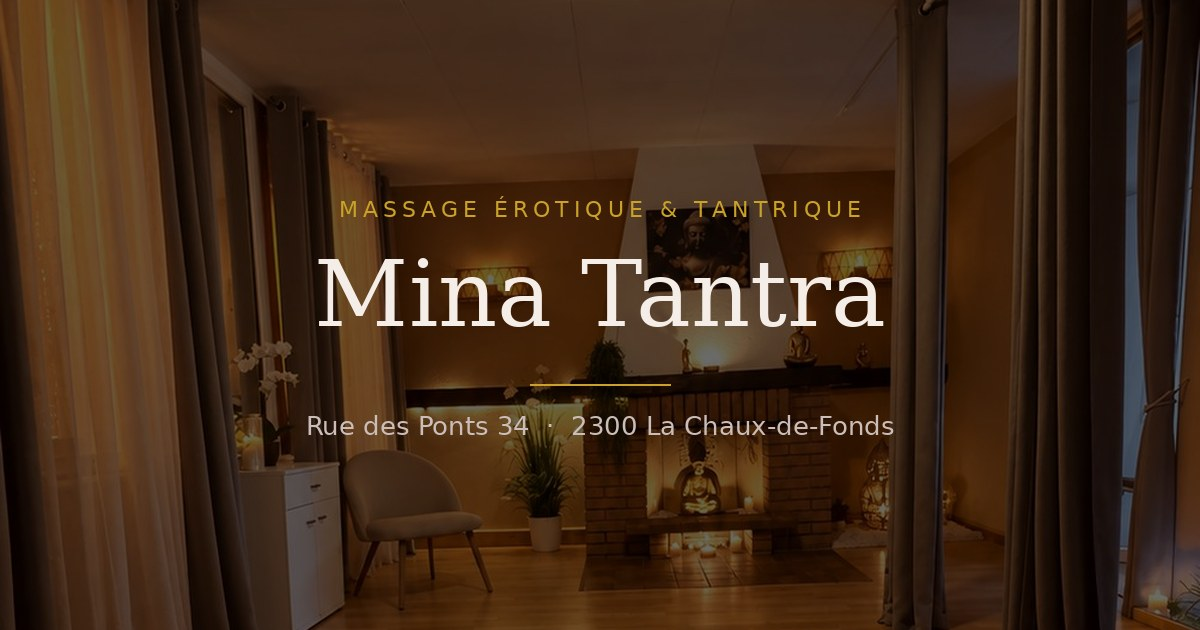
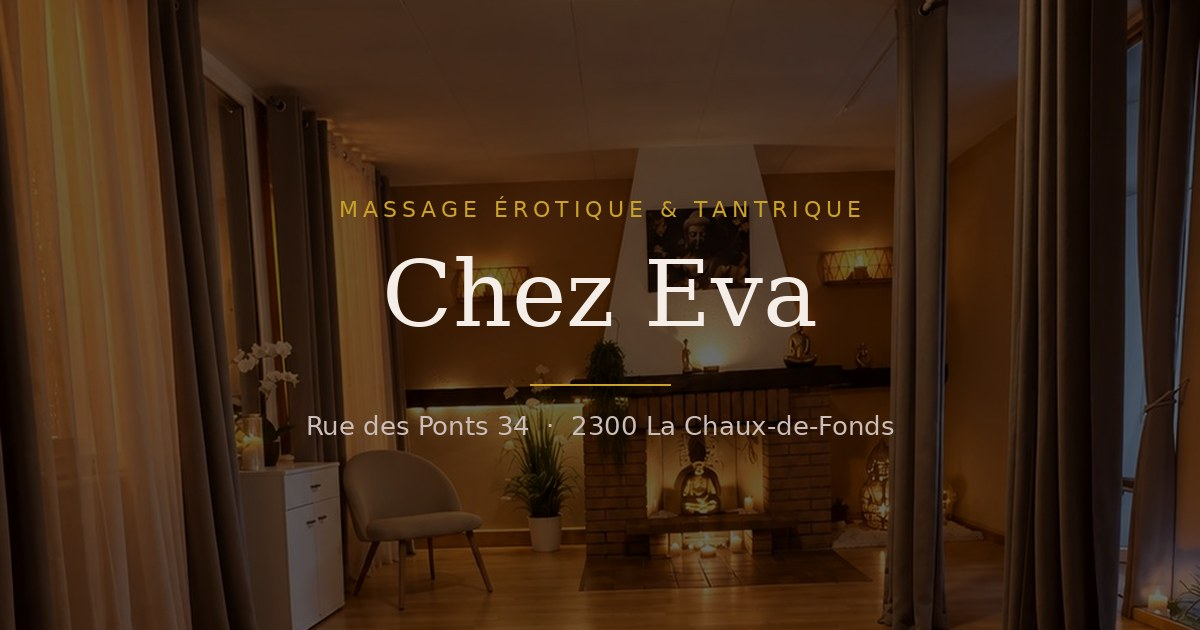
Le salon s'appelle desormais Chez Eva
Nom affiche dans l'en-tete, le bandeau d'accueil, la porte 18+ et le pied
de page : tous alimentes par SALON.nom, donc un seul endroit a modifier.
Titre, description, balises de partage, icone d'onglet (E dore) et image
de partage refaits. Le domaine mina-tantra.ch reste inchange.

Claude-Session: https://claude.ai/code/session_01C5fkNNXimsyCoTzQxENqDe

Changed region(s): [[0.2467, 0.3921, 0.74, 0.5429]]

diff --git a/mina-tantra/index.html b/mina-tantra/index.html
@@ -3,18 +3,18 @@
 <head>
 <meta charset="utf-8">
 <meta name="viewport" content="width=device-width, initial-scale=1">
-<title>Mina Tantra — Massage érotique et tantrique à La Chaux-de-Fonds</title>
-<meta name="description" content="Mina Tantra, salon de massage érotique et tantrique, Rue des Ponts 34 à La Chaux-de-Fonds. Après des années d'expérience, nous vous accueillons sur rendez-vous : masseuses, horaires et tarifs.">
+<title>Chez Eva — Massage érotique et tantrique à La Chaux-de-Fonds</title>
+<meta name="description" content="Chez Eva, salon de massage érotique et tantrique, Rue des Ponts 34 à La Chaux-de-Fonds. Après des années d'expérience, nous vous accueillons sur rendez-vous : masseuses, horaires et tarifs.">
 <meta name="robots" content="index, follow">
 <meta name="rating" content="adult">
 <link rel="canonical" href="https://mina-tantra.ch/">
 
 <meta property="og:type" content="website">
-<meta property="og:site_name" content="Mina Tantra">
+<meta property="og:site_name" content="Chez Eva">
 <meta property="og:locale" content="fr_CH">
 <meta property="og:url" content="https://mina-tantra.ch/">
-<meta property="og:title" content="Mina Tantra — Massage érotique et tantrique à La Chaux-de-Fonds">
-<meta property="og:description" content="Salon de massage érotique et tantrique, Rue des Ponts 34 à La Chaux-de-Fonds. Ouvert 7j/7 de 09h00 à 21h00, sur rendez-vous.">
+<meta property="og:title" content="Chez Eva — Massage érotique et tantrique à La Chaux-de-Fonds">
+<meta property="og:description" content="Chez Eva — salon de massage érotique et tantrique, Rue des Ponts 34 à La Chaux-de-Fonds. Ouvert 7j/7 de 09h00 à 21h00, sur rendez-vous.">
 <meta property="og:image" content="https://mina-tantra.ch/assets/partage.jpg">
 <meta property="og:image:width" content="1200">
 <meta property="og:image:height" content="630">
@@ -30,7 +30,7 @@
 <!-- ------------------------------ Contrôle d'âge ------------------------- -->
 <div class="porte" id="porte" hidden>
   <div class="porte-carte">
-    <p class="porte-marque">Mina&nbsp;Tantra</p>
+    <p class="porte-marque" id="porte-marque"></p>
     <h1>Ce site est réservé aux adultes</h1>
     <p class="porte-texte">
       Il contient des textes et des images à caractère sensuel destinés à un
@@ -48,7 +48,7 @@
 <header class="entete" id="entete">
   <div class="conteneur entete-in">
     <a class="marque" href="#accueil">
-      <span class="marque-nom">Mina Tantra</span>
+      <span class="marque-nom" id="marque-nom"></span>
       <span class="marque-sous">La Chaux-de-Fonds</span>
     </a>
 
@@ -72,7 +72,7 @@
   <div class="hero-voile"></div>
   <div class="conteneur hero-in">
     <p class="hero-eyebrow">Nouveau &middot; Ouverture à La Chaux-de-Fonds</p>
-    <h1 class="hero-titre">Mina Tantra</h1>
+    <h1 class="hero-titre" id="hero-titre"></h1>
     <p class="hero-slogan">Massage érotique &amp; tantrique — l'art de prendre son temps</p>
     <div class="hero-actions">
       <a class="btn btn-plein" href="#masseuses">Voir les masseuses</a>
@@ -170,7 +170,7 @@
 <!-- --------------------------------- Pied -------------------------------- -->
 <footer class="pied">
   <div class="conteneur pied-in">
-    <p class="pied-marque">Mina Tantra</p>
+    <p class="pied-marque" id="pied-marque"></p>
     <p class="pied-texte">
       Salon de massage érotique et tantrique — <span id="pied-adresse"></span>.
       Site strictement réservé aux personnes majeures (18+).
@@ -179,7 +179,7 @@
       Les massages proposés sont des prestations de bien-être entre adultes
       consentants. Aucune donnée personnelle n'est collectée sur ce site.
     </p>
-    <p class="pied-mini">&copy; <span id="annee"></span> Mina Tantra</p>
+    <p class="pied-mini">&copy; <span id="annee"></span> <span id="pied-nom"></span></p>
   </div>
 </footer>
 

diff --git a/mina-tantra/data/contenu.js b/mina-tantra/data/contenu.js
@@ -1,5 +1,5 @@
 /* ---------------------------------------------------------------------------
-   Mina Tantra — contenu du site
+   Chez Eva — contenu du site
    ---------------------------------------------------------------------------
    C'est LE SEUL fichier à modifier au quotidien.
    Tout ce qui est écrit ici s'affiche automatiquement sur le site :
@@ -15,7 +15,7 @@
 --------------------------------------------------------------------------- */
 
 const SALON = {
-  nom: 'Mina Tantra',
+  nom: 'Chez Eva',
   slogan: 'Salon de massage érotique & tantrique',
   ville: 'La Chaux-de-Fonds',
   site: 'https://mina-tantra.ch',
@@ -32,8 +32,8 @@ const SALON = {
 /* Le texte d'accueil (le « mot du salon »).
    Chaque paragraphe est une ligne entre guillemets, séparée par une virgule. */
 const PRESENTATION = [
-  "Cela fait des années que Mina Tantra accompagne une clientèle fidèle, discrète et exigeante. Des années à affiner un savoir-faire, à former nos masseuses et à cultiver une seule idée : le massage érotique est un art du soin avant d'être autre chose.",
-  "Aujourd'hui, nous ouvrons un nouveau chapitre : Mina Tantra s'installe à La Chaux-de-Fonds. Un écrin chaleureux, pensé pour la détente, la lumière douce et le silence, à deux pas du centre — avec la même exigence de qualité et la même discrétion absolue.",
+  "Cela fait des années que nous accompagnons une clientèle fidèle, discrète et exigeante. Des années à affiner un savoir-faire, à former nos masseuses et à cultiver une seule idée : le massage érotique est un art du soin avant d'être autre chose.",
+  "Aujourd'hui, nous ouvrons un nouveau chapitre : Chez Eva s'installe à La Chaux-de-Fonds. Un écrin chaleureux, pensé pour la détente, la lumière douce et le silence, à deux pas du centre — avec la même exigence de qualité et la même discrétion absolue.",
   "Vous serez reçu sans précipitation, dans un cadre propre et raffiné, par une masseuse attentive qui prend le temps de comprendre ce que vous venez chercher. Rien n'est imposé, tout est proposé. Ici, on respire.",
 ];
 

diff --git a/mina-tantra/js/site.js b/mina-tantra/js/site.js
@@ -1,5 +1,5 @@
 /* ============================================================================
-   Mina Tantra — logique du site
+   Chez Eva — logique du site
    Tout le contenu vient de data/contenu.js : ce fichier ne fait que l'afficher.
    ========================================================================== */
 (function () {
@@ -13,7 +13,7 @@
   };
 
   /* ------------------------------ Porte 18+ ------------------------------ */
-  var CLE = 'mina-tantra-majeur';
+  var CLE = 'chez-eva-majeur';
   var porte = $('#porte');
   var dejaEntre = false;
   try { dejaEntre = localStorage.getItem(CLE) === 'oui'; } catch (e) {}
@@ -27,6 +27,13 @@
     porte.hidden = true;
     document.body.classList.remove('bloque');
   });
+
+  /* ------------------- Le nom du salon, en un seul endroit --------------- */
+  ['#porte-marque', '#marque-nom', '#hero-titre', '#pied-marque', '#pied-nom']
+    .forEach(function (id) {
+      var el = $(id);
+      if (el) el.textContent = SALON.nom;
+    });
 
   /* ------------------------------ Présentation --------------------------- */
   $('#presentation-texte').innerHTML =

diff --git a/mina-tantra/README.md b/mina-tantra/README.md
@@ -1,6 +1,6 @@
-# Mina Tantra — site de présentation
+# Chez Eva — site de présentation
 
-Site vitrine du salon **Mina Tantra**, La Chaux-de-Fonds.
+Site vitrine du salon **Chez Eva**, La Chaux-de-Fonds.
 Page unique, en HTML/CSS/JavaScript, sans serveur ni base de données :
 il suffit d'ouvrir `index.html` dans un navigateur, ou de déposer le dossier
 chez n'importe quel hébergeur.
